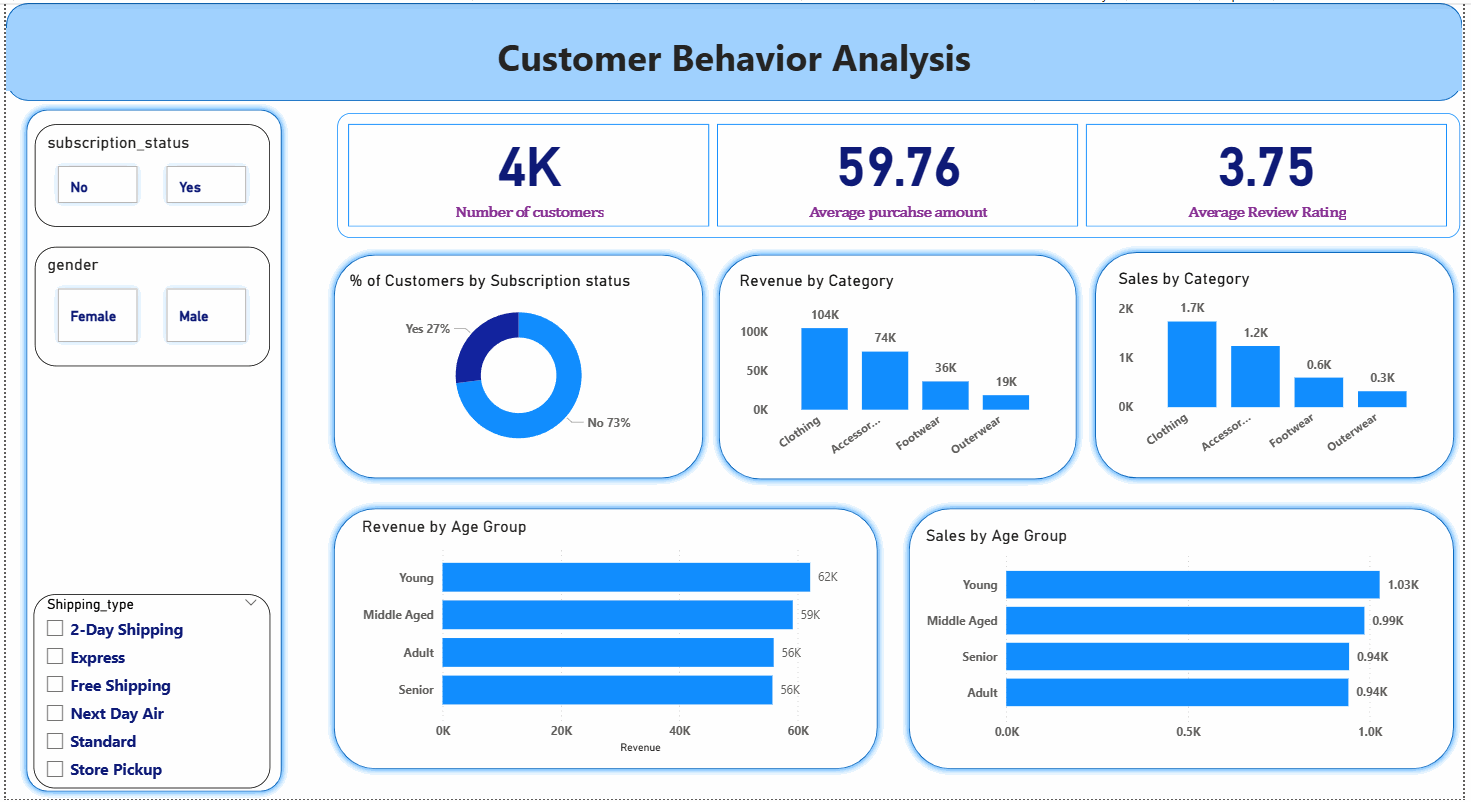
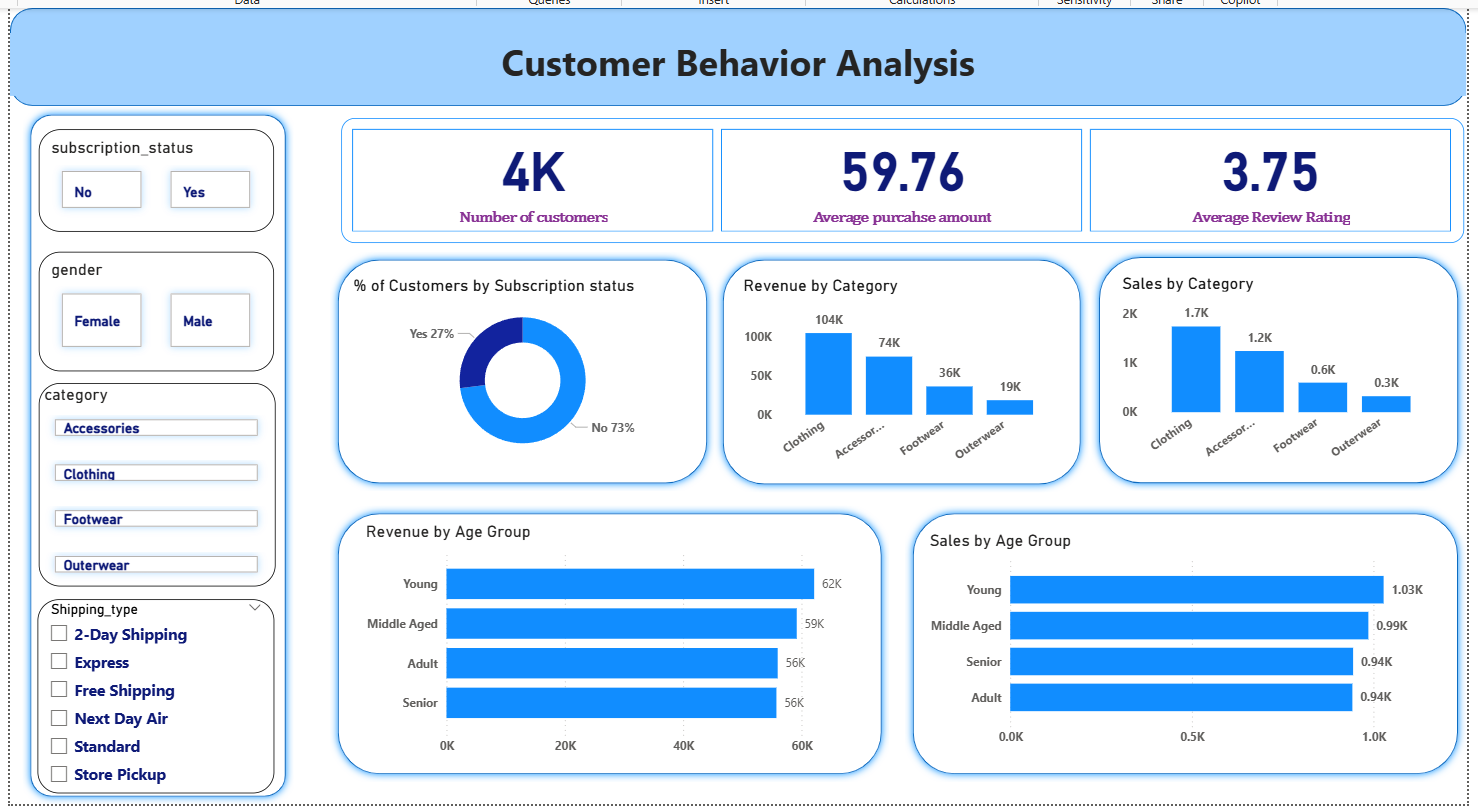
Update customer behaviour Power BI report and show both dashboard views

diff --git a/projects/05-customer-shopping-behavior/README.md b/projects/05-customer-shopping-behavior/README.md
@@ -38,6 +38,10 @@ The Power BI report includes three KPI cards, category and age-group purchase-va
 
 ![Customer Behaviour Analysis — Power BI Dashboard](dashboard/dashboard_preview.png)
 
+**Filtered example** · Male customers buying clothing with Next Day Air shipping (203 customers).
+
+![Filtered customer behaviour dashboard](dashboard/dashboard_filtered.png)
+
 *The GitHub image is a static preview. The editable `.pbix` supports filtering by subscription status, gender, product category and shipping type. After changing the report locally, refresh both the PBIX and the PNG on GitHub.*
 
 ## Repository files
